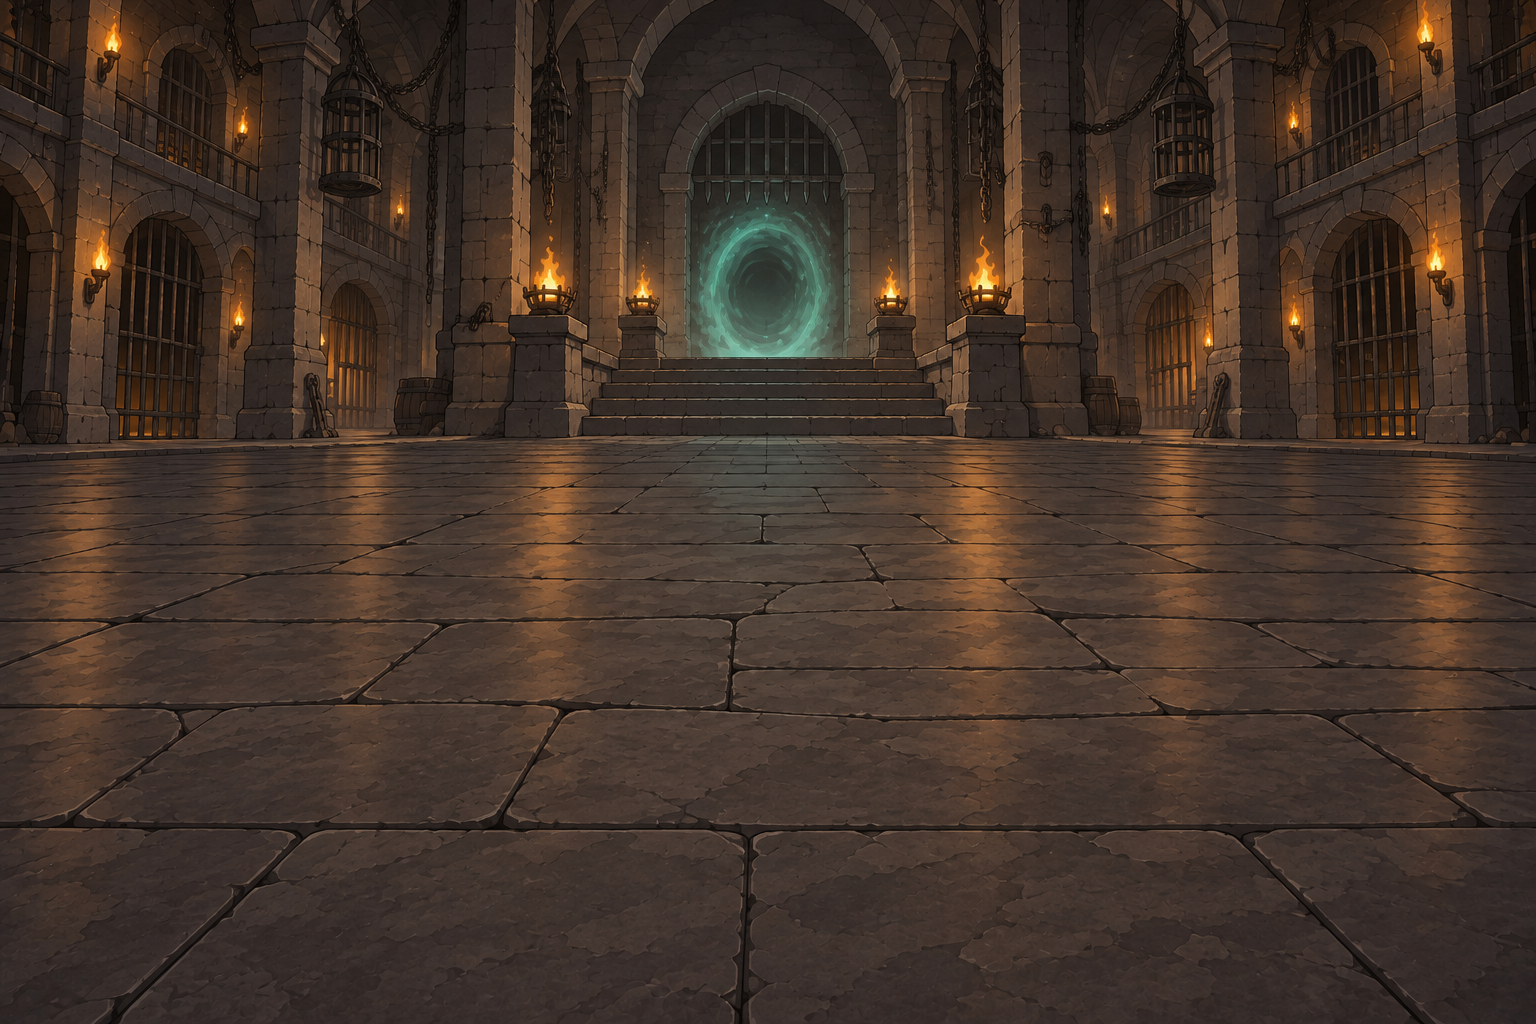
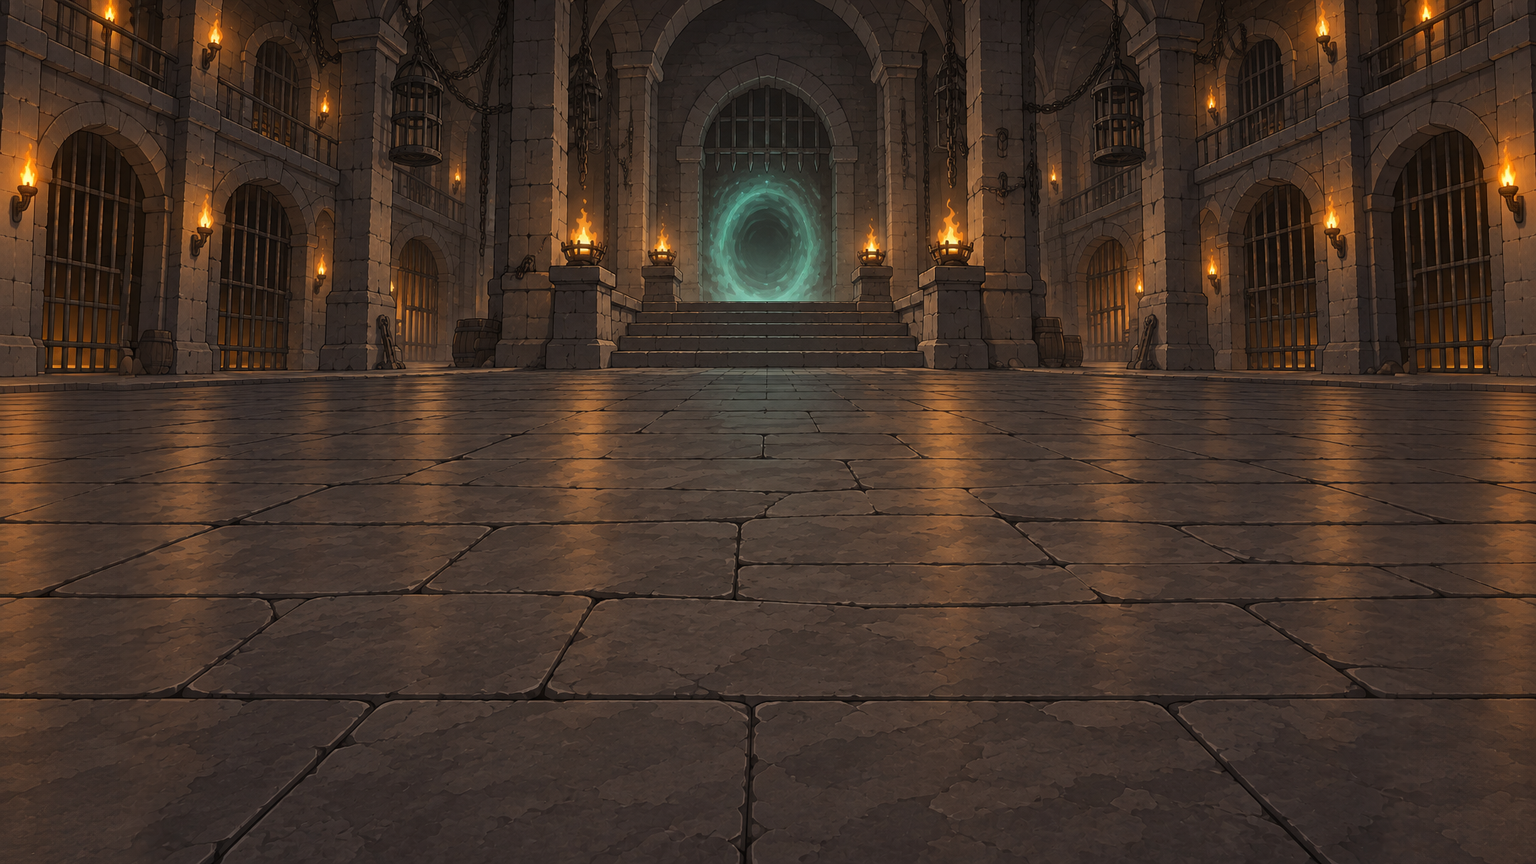
feat: native 16:9 select backgrounds by outpainting, no more mirrored sides
tools/art/widen.py extends each 3:2 picture to 16:9 with the image model, the original kept
in the middle. 14 backgrounds and the seal gate redone; SealSelect maps its positions onto
the wide picture; UiBackdrop mirror fill removed.

diff --git a/tools/art/widen.py b/tools/art/widen.py
@@ -1,0 +1,60 @@
+"""Turns a 3:2 background (1536x1024) into a native 16:9 one (1536x864) by painting the missing
+sides with the image model (outpainting), then pastes the original back over the middle with a
+soft seam, so the centre stays exactly as drawn. Needs Pillow and OPENAI_API_KEY.
+Usage: python tools/art/widen.py <in.png> <out.png> [--note "what the sides show"]
+The original is scaled to 1296x864 and put at x=120; the model fills the 120 px at each side (and
+the unused strip at the bottom, cropped away).
+"""
+import argparse
+import os
+import subprocess
+import sys
+import tempfile
+
+from PIL import Image, ImageFilter
+
+W, H = 1536, 1024
+OUT_W, OUT_H = 1536, 864
+SRC_W = 1296
+X0 = (W - SRC_W) // 2
+FEATHER = 28
+
+
+def main() -> int:
+    parser = argparse.ArgumentParser()
+    parser.add_argument("source")
+    parser.add_argument("target")
+    parser.add_argument("--note", default="")
+    args = parser.parse_args()
+    original = Image.open(args.source).convert("RGB")
+    small = original.resize((SRC_W, OUT_H), Image.LANCZOS)
+    canvas = Image.new("RGBA", (W, H), (0, 0, 0, 0))
+    canvas.paste(small.convert("RGBA"), (X0, 0))
+    work = tempfile.mkdtemp()
+    canvas_path = os.path.join(work, "canvas.png")
+    result_path = os.path.join(work, "result.png")
+    canvas.save(canvas_path)
+    prompt = ("Outpaint this game background: continue the painting seamlessly into the transparent areas on the "
+              "left, the right and the bottom. Same cel-shaded style, palette, lighting, perspective and floor. "
+              "The architecture, decor and the stone floor simply continue sideways; the floor stays empty and "
+              "flat; keep the same horizon height. Do not change the existing part. No text, no characters. " + args.note)
+    command = [sys.executable, os.path.join(os.path.dirname(__file__), "gen_image.py"), "--out", result_path,
+               "--opaque", "--size", "%dx%d" % (W, H), "--image", canvas_path, "--mask", canvas_path, "--prompt", prompt]
+    if subprocess.run(command).returncode != 0:
+        return 1
+    result = Image.open(result_path).convert("RGB").crop((0, 0, OUT_W, OUT_H))
+    # The original back over the middle, its two edges feathered into the painted sides.
+    mask = Image.new("L", (OUT_W, OUT_H), 0)
+    inner = Image.new("L", (SRC_W - 2 * FEATHER, OUT_H), 255)
+    mask.paste(inner, (X0 + FEATHER, 0))
+    mask = mask.filter(ImageFilter.GaussianBlur(FEATHER / 2))
+    middle = Image.new("RGB", (OUT_W, OUT_H))
+    middle.paste(small, (X0, 0))
+    result.paste(middle, (0, 0), mask)
+    result.save(args.target)
+    print(args.target)
+    return 0
+
+
+if __name__ == "__main__":
+    sys.exit(main())

diff --git a/PROJECT_STATUS.md b/PROJECT_STATUS.md
@@ -143,6 +143,7 @@ Dernière mise à jour : 2026-10-09 (nuit, session 11 : refonte visuelle « Cris
 | D113 | 2026-10-10 | **Fonds de sélection montrés en entier (réglage de fond) ; survol du sélecteur visible ; grondement du portail 6 ; titre des sceaux retiré** | Cause racine du zoom : les images 3:2 étaient « couvertes » sur un écran 16:9, donc rognées (haut ou bas) quel que soit l'ancrage. `UiBackdrop.fit_height` : l'image est affichée en entier à la hauteur de l'écran, les bandes des côtés sont remplies par des copies miroir (cachées par les panneaux) ; plus de zoom ni d'ancrage (`vertical_align` retiré). Le sceau solo n'est plus sur les escaliers. Sélecteur : l'image est inset de 5 px pour que le contour blanc du survol soit visible (il était caché sous l'image). Écran des sceaux : titre retiré ; portail du danger 6 : plus d'éclairs sonores, un grondement grave constant en boucle (`Sounds.PORTAL_RUMBLE`, `tools/audio/make_rumble.py`), coupé dès qu'on quitte l'écran ou change de sceau. |
 | D114 | 2026-10-10 | **Écran des sceaux refait ; coop : barre en bas, clic sur le héros ; barres de stats du thème** | Sceaux : image entière à la hauteur de l'écran (côtés en miroir) comme les autres fonds ; portails à la couleur du lieu (`SealSelect.PORTAL_COLORS` : donjon vert d'eau, temple turquoise, forêt blanc, citadelle orange, ruche vert, antre rouge) ; cadres, boutons et numéros suivent la teinte du lieu ; bouton Jouer sobre (bouton du thème, plus le bleu vif) ; détails + récompenses + Jouer en colonne à droite pour laisser voir la porte. Coop : barre de classes en bas (cadre de panneau à la teinte du fond), clic sur un héros = valider la classe puis l'apparence ; sceaux remontés. Solo : barres de stats du thème (`UiTheme.bar_styles`, teinte du fond) à la place des anciennes barres plates. |
 | D115 | 2026-10-10 | **Coop : le survol des armes suit la souris ; barres de stats continues** | Le curseur d'un joueur suit la souris sur ses armes (le survol ne marchait pas après un clic de validation). Barres de stats à 28 px (hauteur du cadre : en dessous, les bouts en biais se cassaient). |
+| D116 | 2026-10-10 | **Fonds natifs 16:9 par outpainting (fin des côtés en miroir)** | Les effets miroir des bords étaient peu premium (dev). `tools/art/widen.py` prolonge une image 3:2 en 16:9 (1536x864) par l'IA (Image 2.5) en gardant le centre à l'identique (raccord fondu). 14 fonds (salle + 6 dangers, séries coop et solo) et la porte des sceaux (`seal_gate_wide.png`) refaits. `UiBackdrop.fit_height` supprimé ; `SealSelect` : positions en parts de l'image d'origine, converties vers la large (`SIDE_SHARE`, `CORE_SHARE`). Originaux 3:2 conservés dans `art_tests/wide/orig/` (hors git). Écrans plus larges que 16:9 : rognage léger haut et bas. |
 | D36 | 2026-10-03 | **Armes visibles façon Brotato + icônes** : positions fixes en cercle, armes petites, icônes d'objets dans le même style, cadre de rang en interface + liseré en jeu | Choix « reco » du dev. Les tirs partent du canon ; la cible reste choisie depuis le centre (pas de rééquilibrage). ADR 0010 |
 
 ### Décisions volontairement reportées
